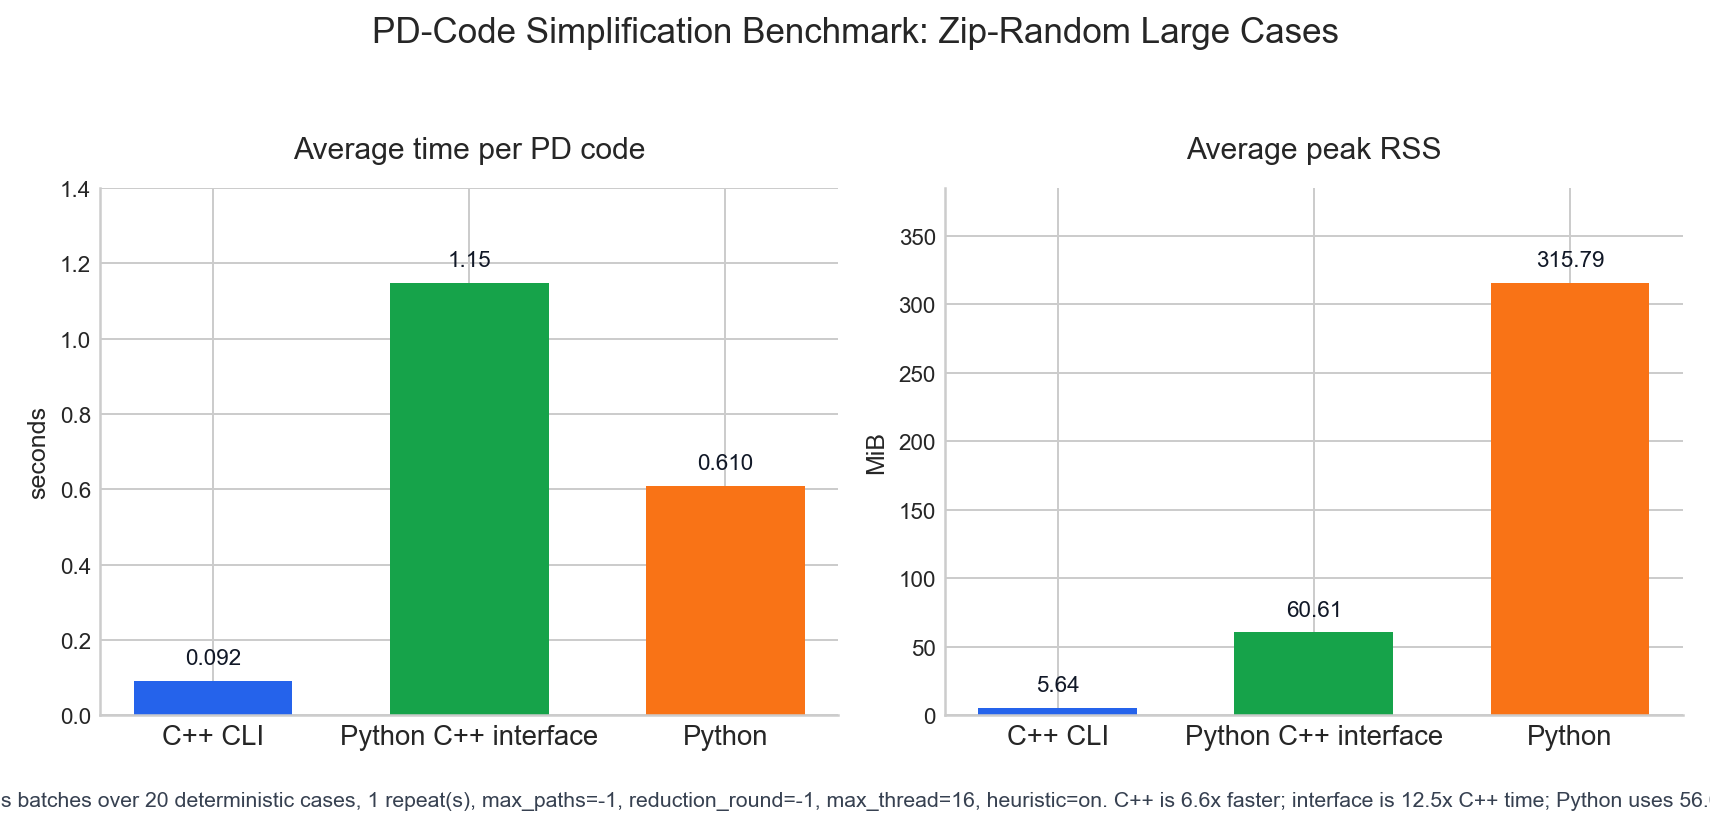
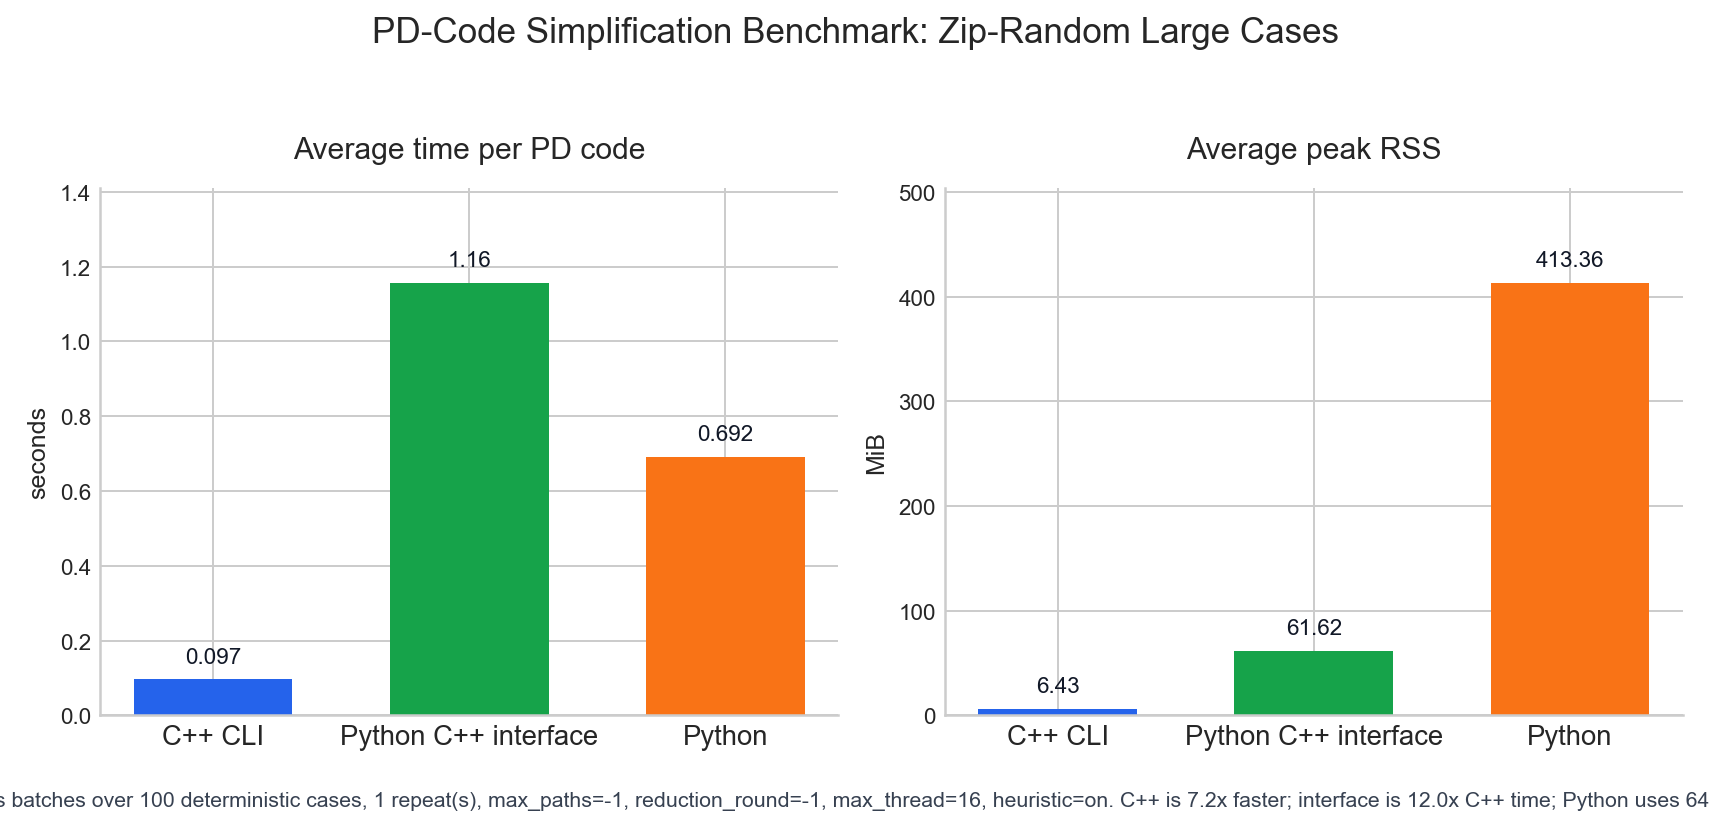
Expand zip-random benchmark to one hundred cases

diff --git a/tools/generate_benchmark_random_fixture.py b/tools/generate_benchmark_random_fixture.py
@@ -1,0 +1,107 @@
+#!/usr/bin/env python3
+"""Generate the committed zip-random benchmark fixture from a local zip file."""
+
+from __future__ import annotations
+
+import argparse
+import random
+import re
+import zipfile
+from pathlib import Path
+from typing import Iterable, List, Sequence, Tuple
+
+
+ROOT = Path(__file__).resolve().parents[1]
+DEFAULT_ZIP = ROOT / "tests" / "pd_code.zip"
+DEFAULT_OUTPUT = ROOT / "tests" / "benchmark_random_pd_codes.txt"
+
+
+Entry = Tuple[str, int, str]
+
+
+def crossing_count(text: str) -> int:
+    numbers = re.findall(r"-?\d+", text)
+    if len(numbers) % 4:
+        raise ValueError("PD code does not contain a multiple of four integers")
+    return len(numbers) // 4
+
+
+def compact_pd_text(text: str) -> str:
+    return " ".join(text.strip().split())
+
+
+def read_eligible_entries(zip_path: Path, max_crossings: int) -> List[Entry]:
+    with zipfile.ZipFile(zip_path) as archive:
+        entries: List[Entry] = []
+        for name in sorted(item for item in archive.namelist() if not item.endswith("/")):
+            text = archive.read(name).decode("utf-8", errors="replace").strip()
+            crossings = crossing_count(text)
+            if crossings <= max_crossings:
+                entries.append((name, crossings, compact_pd_text(text)))
+    return entries
+
+
+def select_entries(entries: Sequence[Entry], sample_size: int, seed: int, prefix_size: int) -> List[Entry]:
+    if sample_size > len(entries):
+        raise ValueError(f"requested {sample_size} samples from only {len(entries)} eligible entries")
+    if prefix_size < 0 or prefix_size > sample_size:
+        raise ValueError("--prefix-size must be between 0 and --sample-size")
+    prefix = random.Random(seed).sample(list(entries), prefix_size) if prefix_size else []
+    prefix_names = {entry[0] for entry in prefix}
+    remaining = [entry for entry in entries if entry[0] not in prefix_names]
+    suffix = random.Random(seed).sample(remaining, sample_size - prefix_size)
+    return [*prefix, *suffix]
+
+
+def render_fixture(
+    selected: Iterable[Entry],
+    *,
+    seed: int,
+    sample_size: int,
+    prefix_size: int,
+    max_crossings: int,
+) -> str:
+    lines = [
+        "# Deterministic random sample from tests/pd_code.zip.",
+        (
+            f"# Selection: seed={seed}, sample_size={sample_size}, "
+            f"prefix_size={prefix_size}, source files with <= {max_crossings} crossings."
+        ),
+        "# The source zip is local-only and is not committed.",
+    ]
+    for index, (name, crossings, text) in enumerate(selected, 1):
+        lines.append(f"# source={name}; crossings={crossings}")
+        lines.append(f"zip_random_{index:02d}: {text}")
+    return "\n".join(lines) + "\n"
+
+
+def main() -> int:
+    parser = argparse.ArgumentParser(description=__doc__)
+    parser.add_argument("--zip", type=Path, default=DEFAULT_ZIP, help="local pd_code.zip path")
+    parser.add_argument("--output", type=Path, default=DEFAULT_OUTPUT, help="fixture file to write")
+    parser.add_argument("--seed", type=int, default=20260708)
+    parser.add_argument("--sample-size", type=int, default=100)
+    parser.add_argument("--prefix-size", type=int, default=20)
+    parser.add_argument("--max-crossings", type=int, default=150)
+    args = parser.parse_args()
+
+    entries = read_eligible_entries(args.zip, args.max_crossings)
+    selected = select_entries(entries, args.sample_size, args.seed, args.prefix_size)
+    args.output.write_text(
+        render_fixture(
+            selected,
+            seed=args.seed,
+            sample_size=args.sample_size,
+            prefix_size=args.prefix_size,
+            max_crossings=args.max_crossings,
+        ),
+        encoding="utf-8",
+    )
+    print(f"wrote {len(selected)} cases from {len(entries)} eligible entries to {args.output}")
+    for index, (name, crossings, _) in enumerate(selected, 1):
+        print(f"zip_random_{index:02d}: {crossings:3d} {name}")
+    return 0
+
+
+if __name__ == "__main__":
+    raise SystemExit(main())

diff --git a/tools/benchmark_dataset.py b/tools/benchmark_dataset.py
@@ -8,7 +8,7 @@ laptop, but it still covers several input shapes:
 - a scalable T(2, n) torus-knot family,
 - diagrams inflated by deterministic reverse Reidemeister-I moves, and
 - the historical 31-crossing reference case used by this repository, and
-- twenty deterministic random samples extracted from a local PD-code
+- one hundred deterministic random samples extracted from a local PD-code
   corpus fixture.
 """
 
@@ -43,7 +43,7 @@ X[60,17,61,18],X[59,38,60,39],X[58,47,59,48]
 ]"""
 
 RANDOM_FIXTURE = ROOT / "tests" / "benchmark_random_pd_codes.txt"
-RANDOM_BENCHMARK_LIMIT = 20
+RANDOM_BENCHMARK_LIMIT = 100
 
 
 @dataclass(frozen=True)

diff --git a/docs/benchmarking.md b/docs/benchmarking.md
@@ -30,15 +30,21 @@ The inflated cases preserve the underlying knot type because each added
 crossing is introduced by a reverse type-I Reidemeister move. The fixed seeds
 make the generated PD codes stable across platforms.
 
-Twenty `zip_random_*` cases were sampled from the local
+One hundred `zip_random_*` cases were sampled from the local
 `tests/pd_code.zip` corpus supplied during development. The zip itself is
 ignored and is not committed. The committed fixture
 `tests/benchmark_random_pd_codes.txt` stores the sampled PD codes so the
 benchmark remains reproducible without the original archive. The sample uses
 seed `20260708` and source files with at most 150 crossings; the resulting
 cases span 120 to 150 crossings. The active large benchmark intentionally uses
-the twenty stored `zip_random_*` cases. Runs use batch-mode input so process
+the one hundred stored `zip_random_*` cases. Runs use batch-mode input so process
 startup is paid once per engine rather than once per PD code.
+
+When the local zip fixture is present, regenerate the committed sample with:
+
+```sh
+python tools/generate_benchmark_random_fixture.py --sample-size 100 --prefix-size 20
+```
 
 ## Running
 
@@ -120,7 +126,7 @@ The committed charts were generated on the local Windows development machine
 with a local 64-bit MinGW `g++ -O3 -DNDEBUG` C++ executable. The original
 lightweight suite uses `max_paths=-1`, heuristic disabled, and
 `reduction_round=-1`. The zip-random suite uses `max_paths=-1`, heuristic
-enabled, `reduction_round=-1`, `max_thread=16`, and twenty active large cases.
+enabled, `reduction_round=-1`, `max_thread=16`, and one hundred active large cases.
 Each suite was measured with one repeat.
 
 Original lightweight suite:
@@ -139,9 +145,9 @@ Zip-random large-case suite:
 
 | Engine | Average Time Per PD Code (s) | Average Peak RSS (MiB) |
 | --- | ---: | ---: |
-| C++ CLI | 0.091932 | 5.637 |
-| Python C++ interface | 1.148408 | 60.605 |
-| Python | 0.610344 | 315.789 |
+| C++ CLI | 0.096687 | 6.430 |
+| Python C++ interface | 1.156787 | 61.621 |
+| Python | 0.691633 | 413.359 |
 
 Summary CSV files are stored in
 [`docs/assets/benchmark_original_summary.csv`](assets/benchmark_original_summary.csv)

diff --git a/README.md b/README.md
@@ -99,14 +99,14 @@ Zip-random large-case benchmark:
 
 | Engine | Avg Time / PD Code (s) | Peak RSS (MiB) |
 | --- | ---: | ---: |
-| C++ CLI | 0.091932 | 5.637 |
-| Python C++ interface | 1.148408 | 60.605 |
-| Python | 0.610344 | 315.789 |
+| C++ CLI | 0.096687 | 6.430 |
+| Python C++ interface | 1.156787 | 61.621 |
+| Python | 0.691633 | 413.359 |
 
 This local run uses the deterministic benchmark set documented in
 [Benchmarking](docs/benchmarking.md). The lightweight suite is measured with
 `--max-paths -1 --ban-heuristic --reduction-round -1 --max-thread 16`. The
-large zip-random throughput chart uses twenty active zip-random cases
+large zip-random throughput chart uses one hundred active zip-random cases
 with `--max-paths -1 --reduction-round -1 --max-thread 16`; the benchmark
 checks C++ CLI, Python C++ interface, and Python outputs for exact JSON
 agreement in the same batch-mode run that measures time and peak RSS.

diff --git a/docs/python-cpp-comparison.md b/docs/python-cpp-comparison.md
@@ -27,7 +27,7 @@ true R2-bigon removal, then nugatory-crossing removal.
   --max-thread 16
 ```
 
-To compare the twenty active zip-random large cases with heuristic green-path
+To compare the one hundred active zip-random large cases with heuristic green-path
 sampling and strict terminal stability:
 
 ```sh